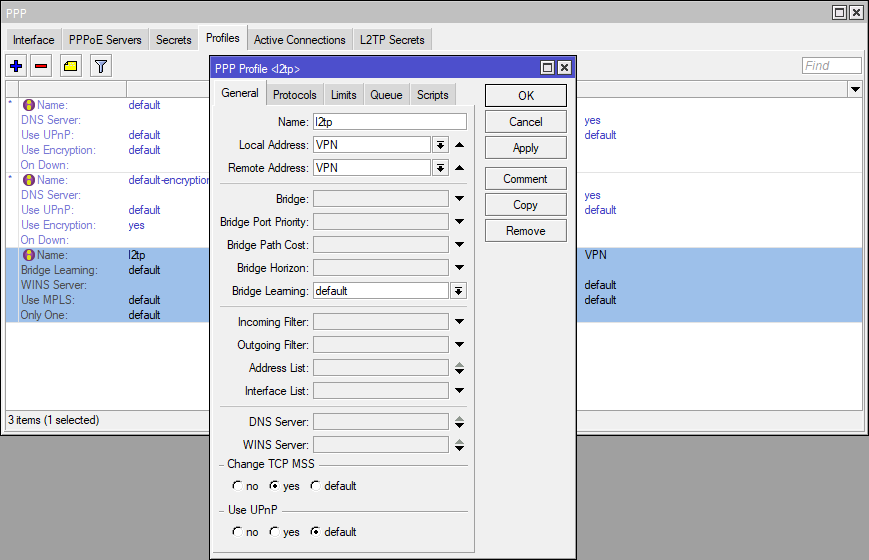
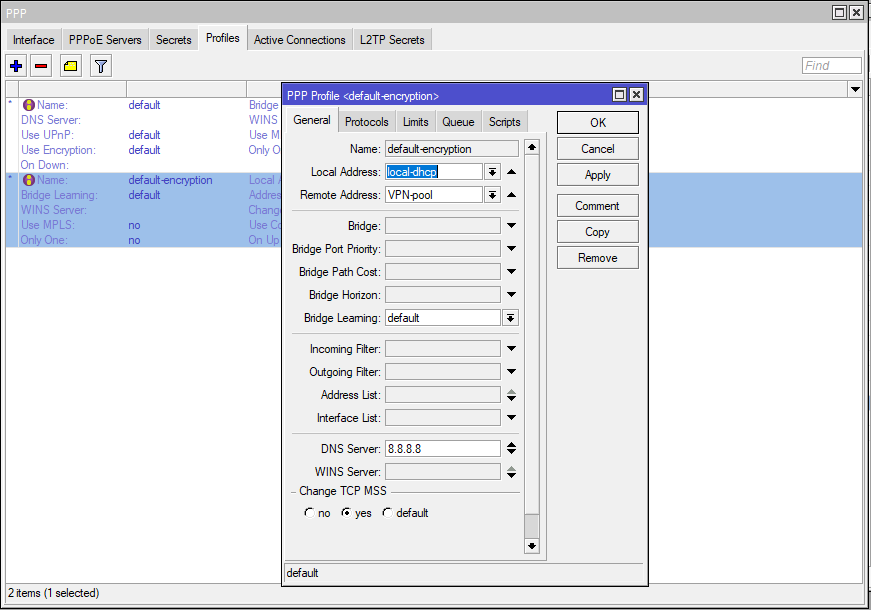
up

diff --git a/README.md b/README.md
@@ -7,7 +7,7 @@
   <li><a href="#Доступ-снаружи-только-определенным-IP-адресам">Доступ снаружи только определенным IP адресам</a></li>
 </ol>
 
-<h1 align="center">Сброс к заводским настройкам</h1>
+# Сброс к заводским настройкам
 
 + Нужно выключить питание.
 + Нажать кнопку Reset а роутере
@@ -20,32 +20,36 @@
 + login: admin
 + password: пустое поле
 
-<h1 align="center">Настройка VPN</h1>
+# SSL Сертификат для субдомена
+
+/certificate enable-ssl-certificate dns-name=childrenyard.ru
+
+# Настройка VPN
 
 1. IP - Pool / Определям диапазон адресов VPN-пользователей
 
 <p align="center"><img src="supplementary_files/9.png"></p>
 
-2. PPP - Profiles / Профиль для нашего конкретного туннеля
+2. «Связать» пул адресов для клиентов и адрес VPN-сервера можно с помощью PPP-профиля:
 
 <p align="center"><img src="supplementary_files/10.png"></p>
 
 **General:**
-- Name: l2tp_profile
-- Local address: vpn_pool (а можно указать 192.168.88.1, сами смотрите, как вам больше нравится)
-- Remote address: vpn_pool
+- Name: default-encryption — имя профиля, используем уже созданный стандартный для этого дела
+- Local Address: default-dhcp — задаем адрес VPN-сервера в локальной сети
+- Remote address: VPN
+- Bridge Learning: default
 - Change TCP MSS: yes
 
 **Protocols:**
-- all to default:
-- Use MPLS: default
-- Use compression: default
-- Use Encryption: default
-
-Если в сети, куда вы подключаетесь, есть ресурсы по внутренним доменным именам, а не только по IP, можете указать DNS Server этой сети, например, 192.168.88.1 (или какой вам нужен).
+- Use MPLS: no — не используем MultiProtocol Label Switching
+- Use compression: yes — включаем сжатие трафика
+- Use Encryption: yes — включаем шифрование
 
 **Limits:**
-Only one: default
+Only one: no — разрешаем более одного одновременного подключения для пользователя
+
+3. Далее необходимо разрешить клиенту выходить в интернет через VPN-подключение. Для этого необходимо настроить NAT.
 
 3. PPP - Secrets / Готовим пользователя VPN
 
@@ -55,7 +59,11 @@ Only one: default
 
 <p align="center"><img src="supplementary_files/12.png"></p>
 
-<h1 align="center">Доступ снаружи через Winbox</h1>
+5. Переходим в IP - IPsec - Proposal и приводим набор настроек default к следующему виду: Auth. Algorithms - sha1, sha256, Encr. Algorithms - aes-128-cbc, aes-192-cbc, aes-256-cbc, PFS Group - ecp384.
+
+<p align="center"><img src="supplementary_files/13.png"></p>
+
+# Доступ снаружи через Winbox
 
 Чтобы подключиться к Микротику через Winbox, нужно в firewall открыть порт 8291. Перейдем IP => Firewall => Filter Rules и нажмем “+”:
 
@@ -71,7 +79,7 @@ Only one: default
 
 Таким образом, подключение к Mikrotik из интернета через Winbox разрешено. Данный способ позволяет удаленно настраивать оборудование в графическом режиме.
 
-<h1 align="center">Доступ снаружи через SSH</h1>
+# Доступ снаружи через SSH
 
 Также удаленное подключение до Mikrotik можно осуществить, используя протокол SSH, настроить и выполнить диагностику устройства из командной строки. Чтобы настроить Mikrotik для удаленного подключения из интернета по протоколу SSH, нужно открыть 22 port. Делается это аналогично настройке доступа через Winbox. Поэтому мы просто скопируем ранее созданное правило, изменив порт:
 
@@ -83,7 +91,7 @@ Only one: default
 
 Разместим его выше блокирующего правила.
 
-<h1 align="center">Доступ снаружи только определенным IP адресам</h1>
+Доступ снаружи только определенным IP адресам
 
 Откроем IP => Services:
 
